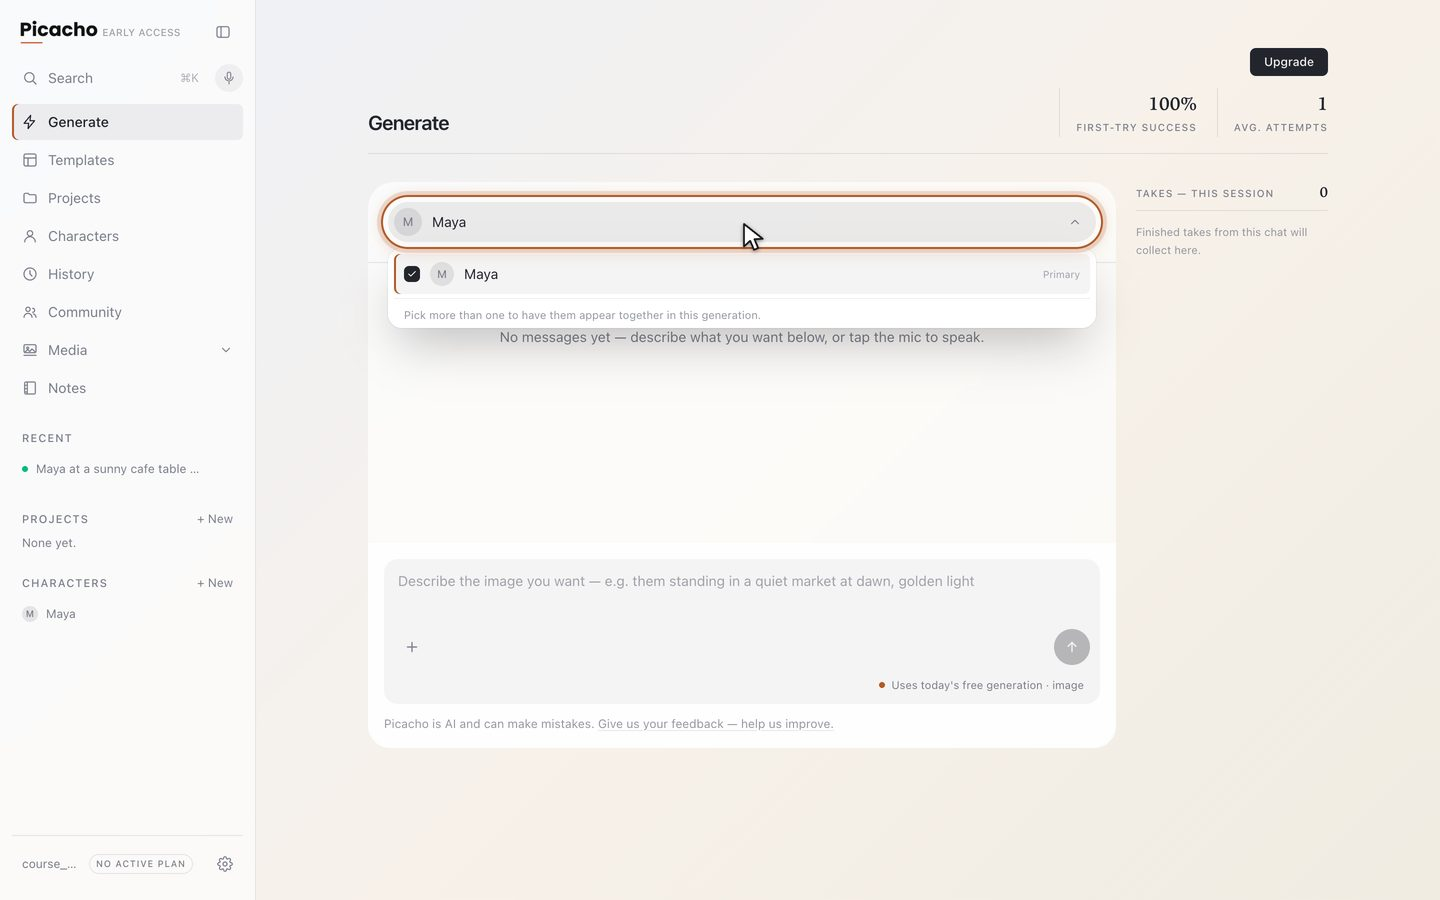
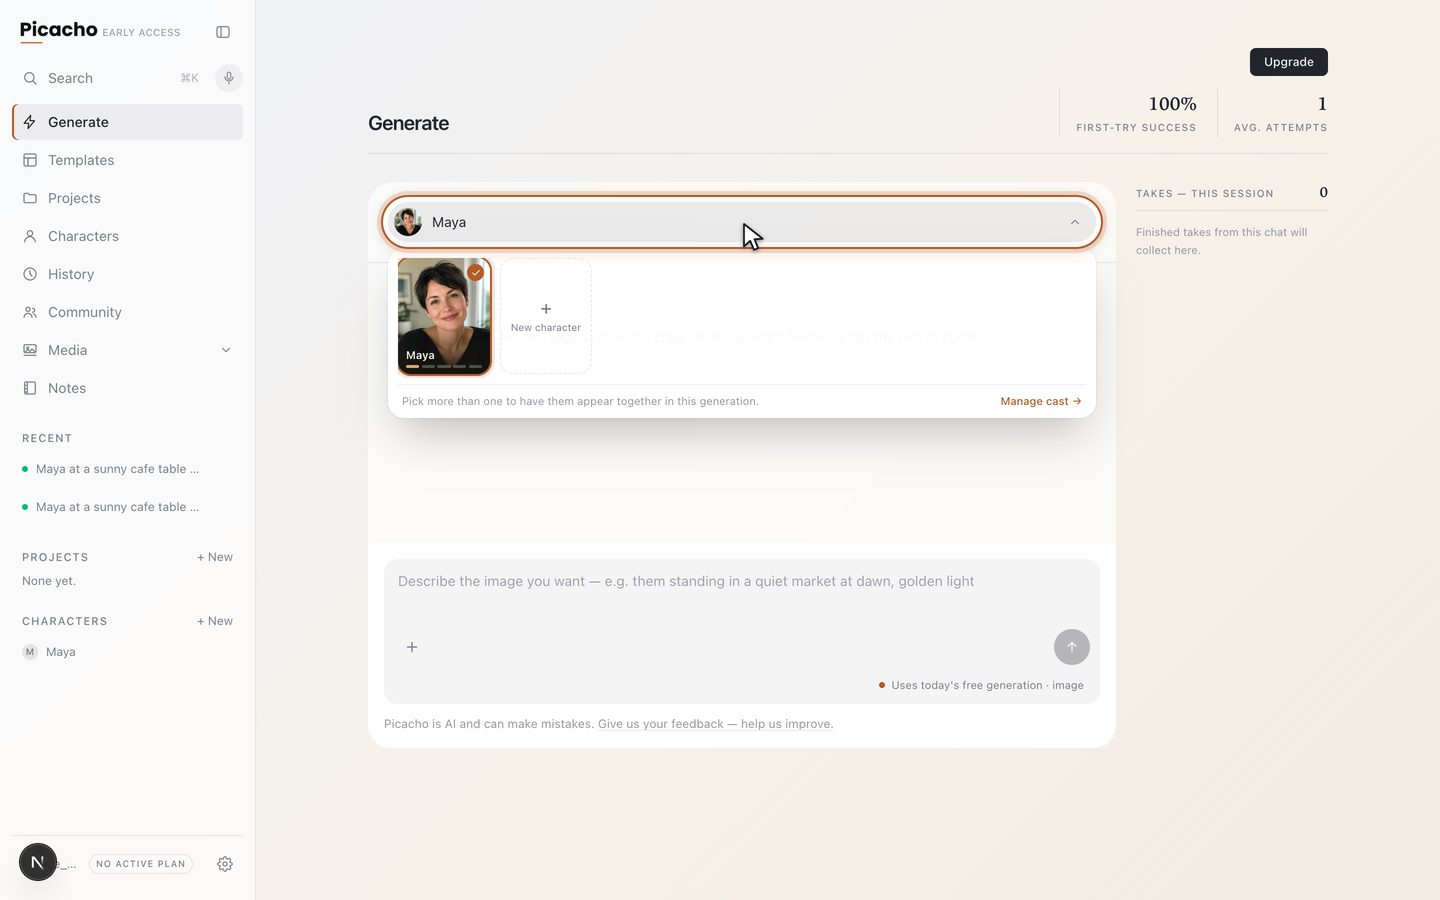
The composer pickers become the Casting Sheet (operator picked direction 1 from the mockup round: 'Lets try your recommendation'). Character dropdown: the gray text list is now the cast wall in miniature — a horizontal strip of 92px portrait cards (referencePhotos[0] at w=320, monogram gradient fall

diff --git a/src/components/generate-form.tsx b/src/components/generate-form.tsx
@@ -1242,6 +1242,12 @@ function PendingAttachmentChip({
 // forwarded here from the sidebar's global voice command), which requires
 // useSearchParams — that hook needs a Suspense boundary around it, so the
 // actual logic lives in GenerateFormInner and this just wraps it.
+// Which video models have a REAL render still checked in as their card
+// thumbnail (public/models/<id>.jpg — each pulled from that model's own
+// production output). Models absent here render a monogram tile in the
+// picker; add the file + the id when a real render exists.
+const MODEL_STILL_IDS = new Set(["seedance-2", "kling-o3-pro", "kling-o3", "kling"]);
+
 type CharacterOption = {
   id: string;
   name: string;
@@ -4197,16 +4203,32 @@ function GenerateFormInner({
         >
           {isMultiCharacter ? (
             <span className="flex flex-shrink-0 -space-x-2">
-              {[currentCharacter, ...companionCharacters].filter(Boolean).slice(0, 3).map((c, i) => (
-                <span
-                  key={c!.id}
-                  className="flex h-7 w-7 items-center justify-center rounded-full border-2 border-atelier-paper bg-atelier-ink/10 text-xs font-medium text-atelier-muted"
-                  style={{ zIndex: 3 - i }}
-                >
-                  {c!.name?.[0]?.toUpperCase() ?? "?"}
-                </span>
-              ))}
+              {[currentCharacter, ...companionCharacters].filter(Boolean).slice(0, 3).map((c, i) => {
+                const ph = c!.referencePhotos[0]?.url;
+                const t = ph?.startsWith("/api/media/") ? `${ph}${ph.includes("?") ? "&" : "?"}w=320` : ph;
+                return t ? (
+                  // eslint-disable-next-line @next/next/no-img-element
+                  <img key={c!.id} src={t} alt="" style={{ zIndex: 3 - i }} className="h-7 w-7 rounded-full border-2 border-atelier-paper bg-atelier-ink/10 object-cover" />
+                ) : (
+                  <span
+                    key={c!.id}
+                    className="flex h-7 w-7 items-center justify-center rounded-full border-2 border-atelier-paper bg-atelier-ink/10 text-xs font-medium text-atelier-muted"
+                    style={{ zIndex: 3 - i }}
+                  >
+                    {c!.name?.[0]?.toUpperCase() ?? "?"}
+                  </span>
+                );
+              })}
             </span>
+          ) : currentCharacter?.referencePhotos[0]?.url ? (
+            // The pill wears the character's real face, not an initial —
+            // same photo the casting sheet leads with.
+            // eslint-disable-next-line @next/next/no-img-element
+            <img
+              src={(() => { const ph = currentCharacter.referencePhotos[0].url; return ph.startsWith("/api/media/") ? `${ph}${ph.includes("?") ? "&" : "?"}w=320` : ph; })()}
+              alt=""
+              className="h-7 w-7 flex-shrink-0 rounded-full bg-atelier-ink/10 object-cover"
+            />
           ) : (
             <span className="flex h-7 w-7 flex-shrink-0 items-center justify-center rounded-full bg-atelier-ink/10 text-xs font-medium text-atelier-muted">
               {currentCharacter?.name?.[0]?.toUpperCase() ?? "?"}
@@ -4231,45 +4253,85 @@ function GenerateFormInner({
         </button>
 
         {characterMenuOpen && (
+          /* The Casting Sheet (2026-08-28, operator-approved direction 1):
+             the text list becomes the cast wall in miniature — portrait
+             cards with the photo, name and lock meter, ochre ring + check
+             for selection, the dashed New card, and a Manage link. Same
+             semantics as before: tap toggles, first pick is primary, cap 4. */
           <div
             role="listbox"
             aria-multiselectable="true"
-            className="absolute left-0 top-full z-20 mt-1.5 max-h-72 w-full min-w-[240px] overflow-y-auto rounded-[14px] bg-atelier-surface p-1.5 shadow-[0_0_0_1px_var(--frost-ring),0_24px_48px_-12px_rgba(0,0,0,0.25)] backdrop-blur-xl"
+            className="absolute left-0 top-full z-20 mt-1.5 w-full min-w-[280px] rounded-[16px] bg-atelier-surface p-2.5 shadow-[0_0_0_1px_var(--frost-ring),0_24px_48px_-12px_rgba(0,0,0,0.25)] backdrop-blur-xl"
           >
-            {characters.map((c) => {
-              const selected = c.id === characterId || companionCharacterIds.includes(c.id);
-              const disabled = !selected && castSize >= 4;
-              return (
-                <button
-                  key={c.id}
-                  type="button"
-                  role="option"
-                  aria-selected={selected}
-                  disabled={disabled}
-                  onClick={() => toggleCompanionCharacter(c.id)}
-                  className={cn(
-                    "flex w-full items-center gap-2.5 rounded-control px-2.5 py-2 text-left text-sm transition-colors disabled:cursor-not-allowed disabled:opacity-40",
-                    selected ? "bg-atelier-ink/5 text-atelier-ink shadow-[inset_2px_0_0_var(--color-atelier-accent)]" : "text-atelier-muted hover:bg-atelier-ink/5 hover:text-atelier-ink",
-                  )}
-                >
-                  <span
+            <div className="flex gap-2.5 overflow-x-auto pb-1">
+              {characters.map((c) => {
+                const selected = c.id === characterId || companionCharacterIds.includes(c.id);
+                const disabled = !selected && castSize >= 4;
+                const photo = c.referencePhotos[0]?.url;
+                const photoThumb = photo?.startsWith("/api/media/")
+                  ? `${photo}${photo.includes("?") ? "&" : "?"}w=320`
+                  : photo;
+                const lockBars = Math.min(c.referencePhotos.length, 5);
+                return (
+                  <button
+                    key={c.id}
+                    type="button"
+                    role="option"
+                    aria-selected={selected}
+                    disabled={disabled}
+                    onClick={() => toggleCompanionCharacter(c.id)}
                     className={cn(
-                      "flex h-4 w-4 flex-shrink-0 items-center justify-center rounded-[5px] border transition-colors",
-                      selected ? "border-atelier-ink bg-atelier-ink" : "border-atelier-rule bg-transparent",
+                      "group relative w-[92px] flex-shrink-0 overflow-hidden rounded-[13px] text-left transition-shadow disabled:cursor-not-allowed disabled:opacity-40",
+                      selected
+                        ? "shadow-[0_0_0_2px_var(--color-atelier-accent),0_0_0_5px_var(--color-atelier-accent-soft,rgba(180,90,40,0.15))]"
+                        : "shadow-[inset_0_0_0_1px_var(--color-atelier-rule)] hover:shadow-[0_0_0_1.5px_var(--color-atelier-muted)]",
                     )}
                   >
-                    {selected && <CheckIcon className="h-2.5 w-2.5 text-atelier-paper" />}
-                  </span>
-                  <span className="flex h-6 w-6 flex-shrink-0 items-center justify-center rounded-full bg-atelier-ink/10 text-[11px] font-medium text-atelier-muted">
-                    {c.name?.[0]?.toUpperCase() ?? "?"}
-                  </span>
-                  <span className="min-w-0 flex-1 truncate">{c.name}</span>
-                  {c.id === characterId && <span className="text-[10px] text-atelier-muted/70">{g.primaryCharacter}</span>}
-                </button>
-              );
-            })}
-            <div className="mt-1 border-t border-atelier-rule/70 px-2.5 pt-2 text-[11px] leading-snug text-atelier-muted/80">
-              {castSize >= 4 ? g.multiCharacterCapReached : g.multiCharacterHint}
+                    {photoThumb ? (
+                      // eslint-disable-next-line @next/next/no-img-element
+                      <img src={photoThumb} alt="" loading="lazy" className="h-[116px] w-full bg-atelier-stage object-cover" />
+                    ) : (
+                      <span className="flex h-[116px] w-full items-end justify-center bg-gradient-to-br from-atelier-ink/30 to-atelier-ink/70 pb-2 text-3xl font-semibold text-atelier-paper/90">
+                        {c.name?.[0]?.toUpperCase() ?? "?"}
+                      </span>
+                    )}
+                    <span className="pointer-events-none absolute inset-x-0 bottom-0 bg-gradient-to-t from-[#17150f]/85 to-transparent px-2 pb-1.5 pt-6">
+                      <span className="block truncate text-[11px] font-semibold text-[#f5f1e9]">{c.name}</span>
+                      <span className="mt-0.5 flex gap-[2.5px]">
+                        {Array.from({ length: 5 }).map((_, i) => (
+                          <span
+                            key={i}
+                            className={cn("h-[3px] flex-1 rounded-full", i < lockBars ? "bg-[#e0a468]" : "bg-white/25")}
+                          />
+                        ))}
+                      </span>
+                    </span>
+                    {selected && (
+                      <span className="absolute right-1.5 top-1.5 flex h-[17px] w-[17px] items-center justify-center rounded-full bg-atelier-accent text-atelier-paper">
+                        <CheckIcon className="h-2.5 w-2.5" />
+                      </span>
+                    )}
+                    {isMultiCharacter && c.id === characterId && (
+                      <span className="absolute left-1.5 top-1.5 rounded-full bg-[#17150f]/70 px-1.5 py-0.5 text-[9px] font-semibold text-[#f5f1e9]">
+                        {g.primaryCharacter}
+                      </span>
+                    )}
+                  </button>
+                );
+              })}
+              <Link
+                href="/app/character/new"
+                className="flex h-[116px] w-[92px] flex-shrink-0 flex-col items-center justify-center gap-1 self-start rounded-[13px] border-[1.5px] border-dashed border-atelier-rule text-atelier-muted transition-colors hover:border-atelier-muted hover:text-atelier-ink"
+              >
+                <span className="text-lg font-medium leading-none">+</span>
+                <span className="px-1 text-center text-[10px] leading-tight">{g.castNew}</span>
+              </Link>
+            </div>
+            <div className="mt-1.5 flex items-center justify-between gap-3 border-t border-atelier-rule/70 px-1 pt-2 text-[11px] leading-snug text-atelier-muted/80">
+              <span>{castSize >= 4 ? g.multiCharacterCapReached : g.multiCharacterHint}</span>
+              <Link href="/app/character" className="flex-shrink-0 font-medium text-atelier-accent hover:underline">
+                {g.castManage}
+              </Link>
             </div>
           </div>
         )}
@@ -4394,22 +4456,36 @@ function GenerateFormInner({
                     setVideoModelMenuOpen(false);
                   }}
                   className={cn(
-                    "flex w-full flex-col gap-0.5 rounded-control px-2.5 py-2 text-left transition-colors",
+                    "flex w-full items-center gap-2.5 rounded-[12px] px-2 py-1.5 text-left transition-colors",
                     m.id === videoModelId
-                      ? "bg-atelier-ink/5 text-atelier-ink shadow-[inset_2px_0_0_var(--color-atelier-accent)]"
+                      ? "bg-atelier-accent/[0.08] text-atelier-ink shadow-[inset_0_0_0_1.5px_var(--color-atelier-accent)]"
                       : "text-atelier-muted hover:bg-atelier-ink/5 hover:text-atelier-ink",
                   )}
                 >
-                  <span className="flex items-center gap-2 text-sm">
-                    <span className="min-w-0 flex-1 truncate">{m.name}</span>
-                    {listCredits > 1 && (
-                      <span className="flex-shrink-0 rounded-full bg-atelier-accent/10 px-2 py-0.5 font-numeral text-[11px] font-medium tabular-nums text-atelier-accent">
-                        {formatMsg(g.creditsEach, { n: listCredits })}
-                      </span>
-                    )}
-                    {m.id === videoModelId && <CheckIcon className="h-3.5 w-3.5 flex-shrink-0 text-atelier-ink" />}
+                  {/* Casting-sheet model cards (2026-08-28): the still is a
+                      REAL render from that model (public/models/<id>.jpg,
+                      pulled from production history) — models without one
+                      yet wear a quiet monogram tile, never a borrowed clip. */}
+                  {MODEL_STILL_IDS.has(m.id) ? (
+                    // eslint-disable-next-line @next/next/no-img-element
+                    <img src={`/models/${m.id}.jpg`} alt="" loading="lazy" className="h-10 w-16 flex-shrink-0 rounded-[8px] bg-atelier-stage object-cover" />
+                  ) : (
+                    <span className="flex h-10 w-16 flex-shrink-0 items-center justify-center rounded-[8px] bg-gradient-to-br from-atelier-ink/60 to-atelier-ink/90 text-sm font-semibold text-atelier-paper/80">
+                      {m.name?.[0] ?? "?"}
+                    </span>
+                  )}
+                  <span className="min-w-0 flex-1">
+                    <span className="flex items-center gap-2 text-sm font-medium">
+                      <span className="min-w-0 flex-1 truncate">{m.name}</span>
+                      {listCredits > 1 && (
+                        <span className="flex-shrink-0 rounded-full bg-atelier-accent/10 px-2 py-0.5 font-numeral text-[11px] font-medium tabular-nums text-atelier-accent">
+                          {formatMsg(g.creditsEach, { n: listCredits })}
+                        </span>
+                      )}
+                      {m.id === videoModelId && <CheckIcon className="h-3.5 w-3.5 flex-shrink-0 text-atelier-accent" />}
+                    </span>
+                    <span className="block truncate text-xs text-atelier-muted">{jobs[m.id] ?? m.description}</span>
                   </span>
-                  <span className="text-xs text-atelier-muted">{jobs[m.id] ?? m.description}</span>
                 </button>
               );
             })}

diff --git a/src/lib/changelog.ts b/src/lib/changelog.ts
@@ -41,6 +41,7 @@ export const RELEASES: Release[] = [
       "A generated character photo can no longer be lost to the unpressed Save button (the operator lost a whole Perspective set to it — recovered): on an existing character, every AI-generated reference photo — including each Perspective shot as it lands — now saves itself to the character the moment it exists, since a photo that cost an allowance must never depend on remembering a button. And for everything that still legitimately needs Save (renames, trait edits, removals, fresh uploads), leaving the page now asks first instead of silently discarding the work.",
       "Two phone-app paper cuts, both reported with screenshots and both gone: pages no longer open scrolled to wherever the LAST page was (the app's scroller kept its position across navigations — every route now arrives at the top), and the ugly gray play-button placeholder Android paints over videos that haven't loaded yet can never appear again — an unloaded video tile now shows the app's own quiet dark ground with a soft play disc, and the real footage fades in the moment its first frame is ready. The same treatment covers the expanded views — the full-screen community player, the media lightbox, and History — where an opening video now shows a quiet loading ring instead of that placeholder.",
       "The presets row learned categories — Camera and Light & looks tabs untangle the nineteen cinema presets, and behind the curtain eighteen NEW drafted blocks landed dormant: eight lighting presets (candlelight, window light, Rembrandt, blue hour, hard sun, ring light, backlit, studio softbox) and ten FX presets (explosion walk, smoke reveal, lightning, glitch teleport, rain burst, fire aura, levitation, confetti, time freeze, product reveal — face-morph effects excluded by design on a platform whose promise is the face). Every draft is invisible in the composer, refused server-side, and exempt from nothing: the moment each earns its validation render it flips visible with the proof clip as its chip. Approved with fal balance low — built now, proven later. And presets learned to STACK: one pick per category rides together — crash zoom plus golden hour is one send — with the blocks compiling in fixed craft order (camera, then light, then FX) no matter the tapping order.",
+      "The composer's two pickers grew up (operator: seeing them daily 'feels unfinished and doesn't fit the work we've done'): the character dropdown became the casting sheet — the cast wall in miniature, portrait cards with each character's real photo, name and lock meter, ochre ring and check for selection, a dashed New-character card and a Manage-cast link, same one-tap multi-select semantics as before — and the character pill now wears the character's actual face instead of an initial. The model menu became cards: each model wearing a REAL still from its own production renders (four exist today; models without one wear a quiet monogram tile, never a borrowed clip), its one-line job, price chip and check. The course's two menu screenshots were reshot the same hour.",
       "Google Play: the organization verification cleared ('account in good standing') — the production release submitted Aug 21 is now genuinely in Google's review queue, with the launch playbook armed for the moment it flips live.",
     ],
   },

diff --git a/src/lib/i18n/messages/en.ts b/src/lib/i18n/messages/en.ts
@@ -688,6 +688,7 @@ const en = {
     cinemaPresetsButton: "Presets",
     cinemaPresetLabels: { "crash-zoom": "Crash zoom", "dolly-35mm": "35mm dolly-in", "handheld-chase": "Handheld chase", "orbit": "Orbit", "crane-reveal": "Crane reveal", "aerial-pullback": "Aerial pull-back", "low-hero": "Hero angle", "bullet-time": "Bullet time", "slowmo-glamour": "Slow motion", "noir": "Film noir", "film-80s": "'80s film", "golden-hour": "Golden hour", "horror": "Horror", "neon-rain": "Neon rain", "storybook": "Storybook", "documentary": "Documentary", "epic-fantasy": "Epic fantasy", "western-sunset": "Western", "dream-haze": "Dream",  "candlelight": "Candlelight", "window-light": "Window light", "rembrandt": "Rembrandt", "blue-hour": "Blue hour", "hard-sun": "Hard sun", "ring-light": "Ring light", "backlit-silhouette": "Backlit", "studio-softbox": "Studio softbox", "fx-explosion": "Explosion walk", "fx-smoke-reveal": "Smoke reveal", "fx-lightning": "Lightning", "fx-glitch-teleport": "Glitch teleport", "fx-rain-burst": "Rain burst", "fx-fire-aura": "Fire aura", "fx-levitation": "Levitation", "fx-confetti": "Confetti", "fx-time-freeze": "Time freeze", "fx-product-reveal": "Product reveal", },
     presetTabCamera: "Camera", presetTabLight: "Light & looks", presetTabFx: "FX",
+    castNew: "New character", castManage: "Manage cast →",
     uploadPhotoFailed: "Couldn't upload that photo.",
     resultMissing: "The result was missing: {issues}.",
     // The /app/generate page header and its reliability stat tiles.

diff --git a/src/lib/i18n/messages/es.ts b/src/lib/i18n/messages/es.ts
@@ -632,6 +632,7 @@ const es = {
     cinemaPresetsButton: "Presets",
     cinemaPresetLabels: { "crash-zoom": "Zoom brusco", "dolly-35mm": "Dolly-in 35mm", "handheld-chase": "Cámara al hombro", "orbit": "Órbita", "crane-reveal": "Grúa descendente", "aerial-pullback": "Retirada aérea", "low-hero": "Ángulo héroe", "bullet-time": "Bullet time", "slowmo-glamour": "Cámara lenta", "noir": "Cine negro", "film-80s": "Cine años 80", "golden-hour": "Hora dorada", "horror": "Terror", "neon-rain": "Lluvia neón", "storybook": "Cuento", "documentary": "Documental", "epic-fantasy": "Fantasía épica", "western-sunset": "Western", "dream-haze": "Sueño",  "candlelight": "Luz de velas", "window-light": "Luz de ventana", "rembrandt": "Rembrandt", "blue-hour": "Hora azul", "hard-sun": "Sol duro", "ring-light": "Aro de luz", "backlit-silhouette": "Contraluz", "studio-softbox": "Estudio softbox", "fx-explosion": "Explosión", "fx-smoke-reveal": "Humo", "fx-lightning": "Relámpagos", "fx-glitch-teleport": "Teletransporte glitch", "fx-rain-burst": "Lluvia", "fx-fire-aura": "Aura de fuego", "fx-levitation": "Levitación", "fx-confetti": "Confeti", "fx-time-freeze": "Tiempo congelado", "fx-product-reveal": "Producto", },
     presetTabCamera: "Cámara", presetTabLight: "Luz y estilos", presetTabFx: "FX",
+    castNew: "Nuevo personaje", castManage: "Gestionar reparto →",
     uploadPhotoFailed: "No se pudo subir esa foto.",
     resultMissing: "Al resultado le faltaba: {issues}.",
     pageTitle: "Generar",

diff --git a/src/lib/i18n/messages/pt.ts b/src/lib/i18n/messages/pt.ts
@@ -632,6 +632,7 @@ const pt = {
     cinemaPresetsButton: "Presets",
     cinemaPresetLabels: { "crash-zoom": "Zoom brusco", "dolly-35mm": "Dolly-in 35mm", "handheld-chase": "Câmera na mão", "orbit": "Órbita", "crane-reveal": "Grua descendente", "aerial-pullback": "Recuo aéreo", "low-hero": "Ângulo herói", "bullet-time": "Bullet time", "slowmo-glamour": "Câmera lenta", "noir": "Noir", "film-80s": "Anos 80", "golden-hour": "Hora dourada", "horror": "Terror", "neon-rain": "Chuva neon", "storybook": "Conto de fadas", "documentary": "Documentário", "epic-fantasy": "Fantasia épica", "western-sunset": "Western", "dream-haze": "Sonho",  "candlelight": "Luz de velas", "window-light": "Luz de janela", "rembrandt": "Rembrandt", "blue-hour": "Hora azul", "hard-sun": "Sol forte", "ring-light": "Ring light", "backlit-silhouette": "Contraluz", "studio-softbox": "Estúdio softbox", "fx-explosion": "Explosão", "fx-smoke-reveal": "Fumaça", "fx-lightning": "Relâmpagos", "fx-glitch-teleport": "Teletransporte glitch", "fx-rain-burst": "Chuva", "fx-fire-aura": "Aura de fogo", "fx-levitation": "Levitação", "fx-confetti": "Confete", "fx-time-freeze": "Tempo congelado", "fx-product-reveal": "Produto", },
     presetTabCamera: "Câmera", presetTabLight: "Luz e estilos", presetTabFx: "FX",
+    castNew: "Novo personagem", castManage: "Gerenciar elenco →",
     uploadPhotoFailed: "Não foi possível enviar essa foto.",
     resultMissing: "Faltou no resultado: {issues}.",
     pageTitle: "Gerar",

diff --git a/src/lib/i18n/messages/it.ts b/src/lib/i18n/messages/it.ts
@@ -632,6 +632,7 @@ const it = {
     cinemaPresetsButton: "Preset",
     cinemaPresetLabels: { "crash-zoom": "Crash zoom", "dolly-35mm": "Dolly-in 35mm", "handheld-chase": "Camera a mano", "orbit": "Orbita", "crane-reveal": "Gru discendente", "aerial-pullback": "Arretramento aereo", "low-hero": "Angolo eroe", "bullet-time": "Bullet time", "slowmo-glamour": "Slow motion", "noir": "Noir", "film-80s": "Anni '80", "golden-hour": "Ora d'oro", "horror": "Horror", "neon-rain": "Pioggia neon", "storybook": "Fiaba", "documentary": "Documentario", "epic-fantasy": "Fantasy epico", "western-sunset": "Western", "dream-haze": "Sogno",  "candlelight": "Lume di candela", "window-light": "Luce di finestra", "rembrandt": "Rembrandt", "blue-hour": "Ora blu", "hard-sun": "Sole duro", "ring-light": "Ring light", "backlit-silhouette": "Controluce", "studio-softbox": "Studio softbox", "fx-explosion": "Esplosione", "fx-smoke-reveal": "Fumo", "fx-lightning": "Fulmini", "fx-glitch-teleport": "Teletrasporto glitch", "fx-rain-burst": "Pioggia", "fx-fire-aura": "Aura di fuoco", "fx-levitation": "Levitazione", "fx-confetti": "Coriandoli", "fx-time-freeze": "Tempo fermo", "fx-product-reveal": "Prodotto", },
     presetTabCamera: "Camera", presetTabLight: "Luce e stili", presetTabFx: "FX",
+    castNew: "Nuovo personaggio", castManage: "Gestisci cast →",
     uploadPhotoFailed: "Impossibile caricare quella foto.",
     resultMissing: "Nel risultato mancava: {issues}.",
     pageTitle: "Genera",
